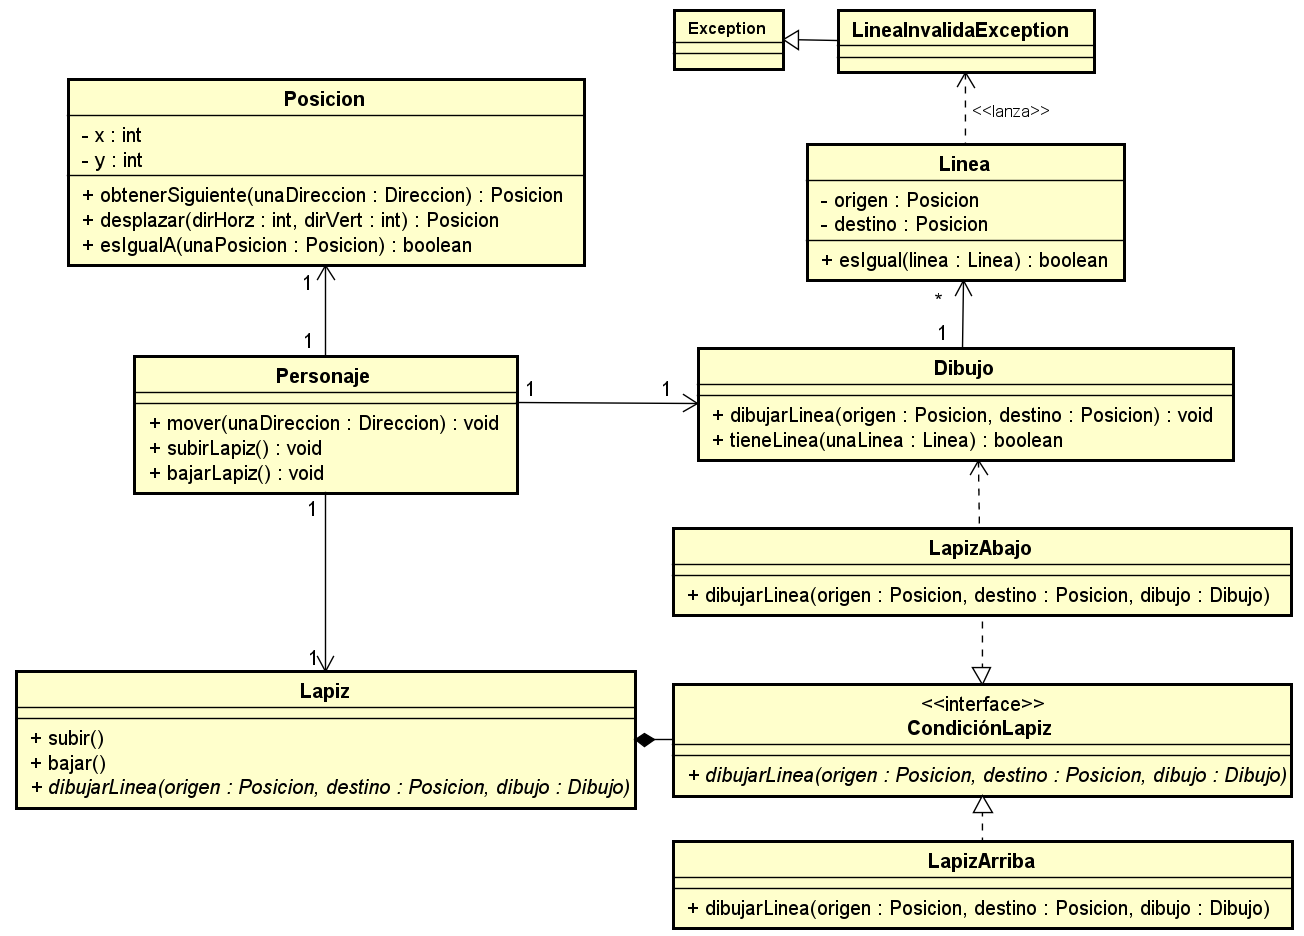
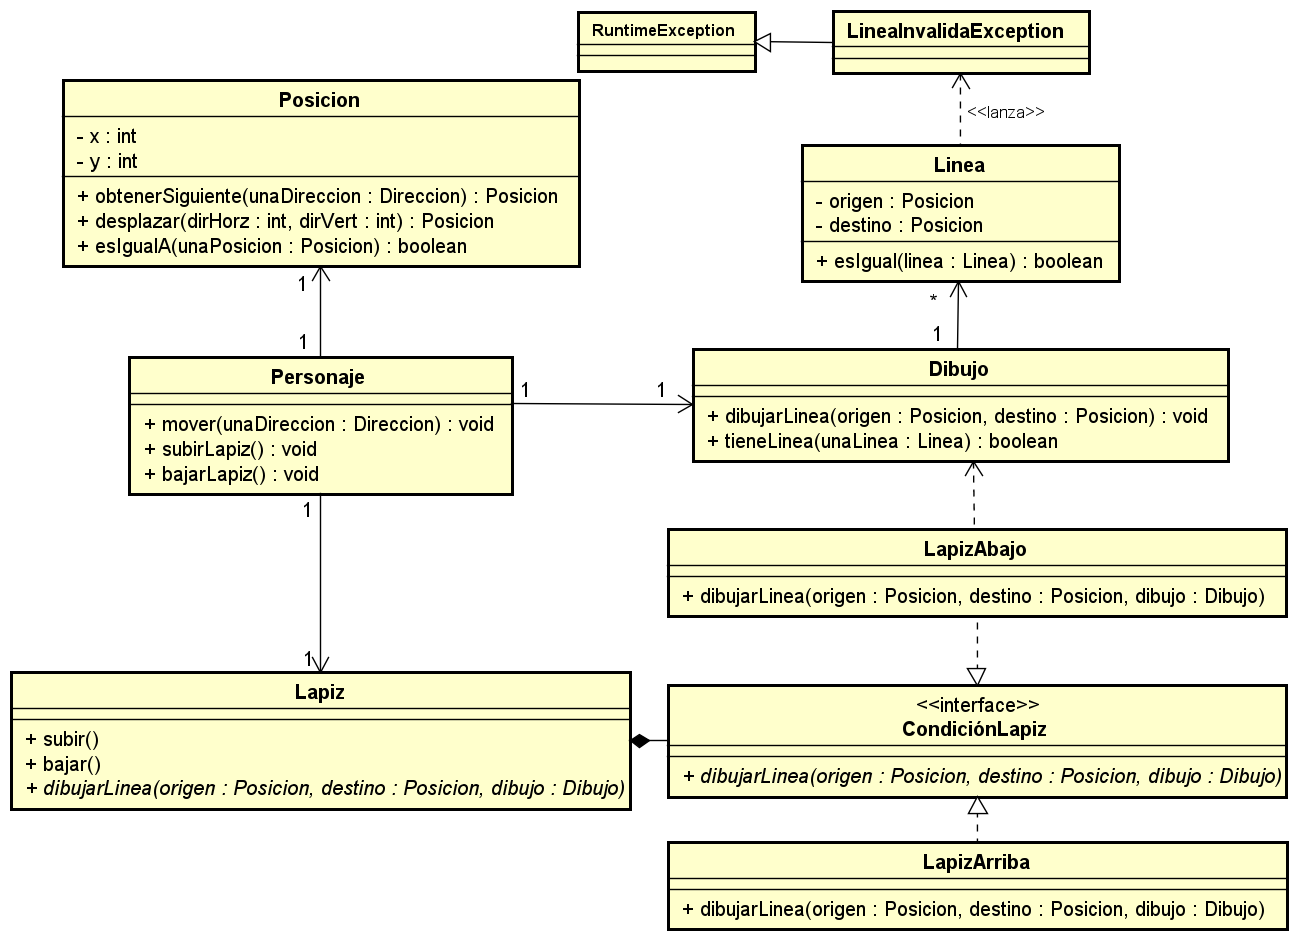
Deshago el ultimo cambio

Changed region(s): [[0.0, 0.0, 1.0, 1.0], [0.2147, 0.0929, 0.2761, 0.1239]]

diff --git a/src/main/java/edu/fiuba/algo3/modelo/LineaInvalidaException.java b/src/main/java/edu/fiuba/algo3/modelo/LineaInvalidaException.java
@@ -1,4 +1,4 @@
 package edu.fiuba.algo3.modelo;
 
-public class LineaInvalidaException extends Exception{
+public class LineaInvalidaException extends RuntimeException{
 }
